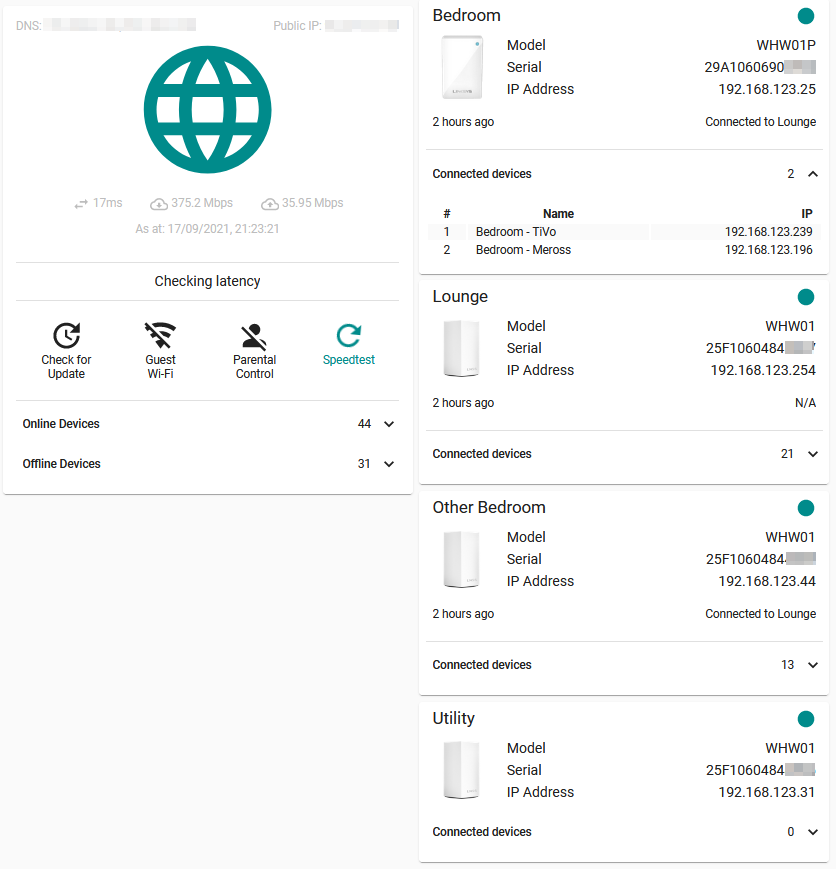
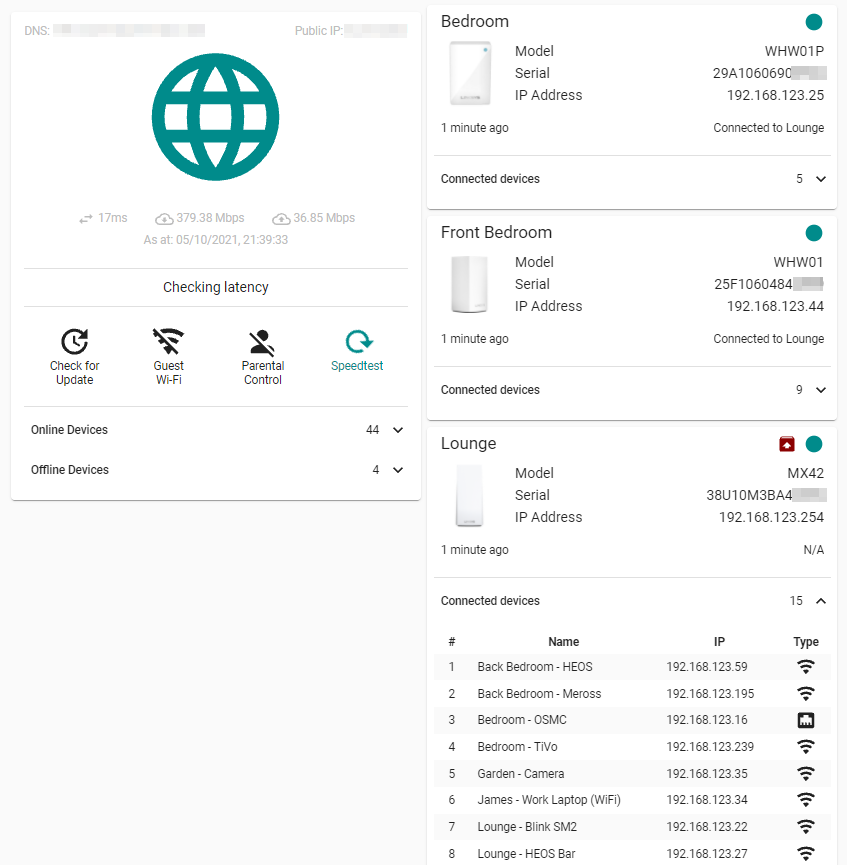
Update the README to reflect recent changes
YAML view updated to: -

- show the type of connection for connected devices
- show an icon when updates are available for a node

diff --git a/README.md b/README.md
@@ -29,6 +29,7 @@ available.
   - IP, DNS, MAC
 - Node: Status
   - IP, MAC
+- Node: Update Available
 
 #### Device  Trackers
 
@@ -40,13 +41,14 @@ install time and from reconfiguring the integration.
 - Mesh: Number of Offline Devices
   - list of device names that are offline
 - Mesh: Number of Online Devices
-  - list of device names and IP addresses that are online
+  - list of device names, IP addresses and adapter types that are online
 - Mesh: Date of Latest Speedtest
   - Exit code, Latency, Download/Upload bandwidth, Result ID
 - Node: Number of Connected Devices
   - list of device names and IP addresses that are connected
 - Node: Current Firmware Version
 - Node: Model Number
+- Node: Newest Firmware Version
 - Node: Parent Name
   - IP address of the parent
 - Node: Serial Number
@@ -388,22 +390,35 @@ To create this view a number of custom cards have been used.  These are: -
                           ha-card { border-radius: 0px; box-shadow: none; }
                           ha-markdown { padding: 16px 0px 0px !important; }
                         ha-markdown$: >
-                          table { width: 100%; }
+                          table { width: 100%; border-collapse: separate;
+                          border-spacing: 0px; }
 
                           tbody tr:nth-child(2n+1) { background-color:
                           var(--table-row-background-color); }
 
-                          thead tr th, tbody tr td { padding: 0px 10px; }
+                          thead tr th, tbody tr td { padding: 4px 10px; }
                     content: >
                       {% set devices =
                       state_attr('sensor.velop_mesh_online_devices', 'devices')
-                      %} | # | Name | IP |
+                      %} | # | Name | IP | Type |
 
-                      |:---:|---|---:| {%- for device in devices -%}
+                      |:---:|---|---|:---:| {%- for device in devices -%}
                         {% set idx = loop.index %}
-                        {%- for device_name, device_ip in device.items() %}
-                      {{ "| {} | {} | {} |".format(idx, device_name,
-                      ",".join(device_ip)) }}
+                        {%- for device_name, device_details in device.items() -%}
+                          {%- set device_ip = device_details.keys() | list | first -%}
+                          {%- set connection_type = device_details.values() | list | first | lower -%}
+                          {%- if connection_type == "wired" -%}
+                            {%- set connection_icon = "ethernet" -%}
+                          {% elif connection_type == "wireless" -%}
+                            {%- set connection_icon = "wifi" -%}
+                          {% elif connection_type == "unknown" -%}
+                            {%- set connection_icon = "help" -%}
+                          {% else -%}
+                            {%- set connection_icon = "" -%}
+                          {%- endif %}
+                      {{ "| {} | {} | {} | {} |".format(idx, device_name,
+                      device_ip, '<ha-icon icon="hass:' ~ connection_icon ~
+                      '"></ha-icon>') }}
                         {%- endfor %}
                       {%- endfor %}
               - type: custom:fold-entity-row
@@ -435,12 +450,13 @@ To create this view a number of custom cards have been used.  These are: -
                           ha-card { border-radius: 0px; box-shadow: none; }
                           ha-markdown { padding: 16px 0px 0px !important; }
                         ha-markdown$: >
-                          table { width: 100%; }
+                          table { width: 100%; border-collapse: separate;
+                          border-spacing: 0px; }
 
                           tbody tr:nth-child(2n+1) { background-color:
                           var(--table-row-background-color); }
 
-                          thead tr th, tbody tr td { padding: 0px 10px; }
+                          thead tr th, tbody tr td { padding: 4px 10px; }
                     content: >
                       {% set devices =
                       state_attr('sensor.velop_mesh_offline_devices', 'devices')
@@ -480,24 +496,42 @@ To create this view a number of custom cards have been used.  These are: -
                     "sensor." +
                     "this.entity_id".split(".")[1].split("_").slice(0,-1).join("_")
                     + "_serial"
+                  ID_UPDATE_AVAILABLE: >
+                    "binary_sensor." +
+                    "this.entity_id".split(".")[1].split("_").slice(0,-1).join("_")
+                    + "_update_available"
                   CONNECTED_DEVICES_TEXT: |
                     (entity_id) => {
                       var ret = `
-                    | # | Name | IP |
-                    |:---:|---|---:|
+                    | # | Name | IP | Type |
+                    |:---:|---|---|:---:|
                     `
                       if (states[entity_id].attributes.devices) {
                         states[entity_id].attributes.devices.forEach((device, idx) => {
-                          ret += "| " + (idx + 1) + " | " + device.name + " | " + device.ip + " |\n"
+                          var connection_icon
+                          switch (device.type.toLowerCase()) {
+                            case "wireless":
+                              connection_icon = "wifi"
+                              break
+                            case "wired":
+                              connection_icon = "ethernet"
+                              break
+                            case "unknown":
+                              connection_icon = "question"
+                              break
+                          }
+                          ret += "| " + (idx + 1) + " | " + device.name + " | " + device.ip + " | <ha-icon icon='hass:" + connection_icon + "'></ha-icon> |\n"
                         })
                       }
                       return ret
                     }
                 entities:
+                  - this.entity_id
                   - ${ID_CONNECTED_DEVICES}
                   - ${ID_MODEL}
                   - ${ID_PARENT}
                   - ${ID_SERIAL}
+                  - ${ID_UPDATE_AVAILABLE}
                 card:
                   type: custom:stack-in-card
                   cards:
@@ -537,6 +571,20 @@ To create this view a number of custom cards have been used.  These are: -
                           states[ID_PARENT].state : 'N/A'}
                         attr_label_ip: IP Address
                         attr_ip: '[[[ return entity.attributes.ip || ''N/A'' ]]]'
+                        attr_update: |
+                          [[[
+                            var ret
+                            var entity_update = 'binary_sensor.' + entity.entity_id.split('.')[1].split('_').slice(0, -1).join('_') + '_update_available'
+                            var update_available = states[entity_update].state
+                            if (update_available == 'on') {
+                              ret = `<ha-icon
+                                  icon="hass:package-up"
+                                  style="width: 24px; height: 24px;"
+                                >
+                                </ha-icon>`
+                            }
+                            return ret
+                          ]]]
                       extra_styles: >
                         div[id^="attr_"] { justify-self: end; }
                         div[id^="attr_label_"] { justify-self: start;
@@ -547,8 +595,8 @@ To create this view a number of custom cards have been used.  These are: -
                           - padding: 16px
                         grid:
                           - grid-template-areas: >-
-                              "n n attr_status" "i attr_label_model attr_model"
-                              "i attr_label_serial attr_serial" "i attr_label_ip
+                              "n n n" "i attr_label_model attr_model" "i
+                              attr_label_serial attr_serial" "i attr_label_ip
                               attr_ip" "l l attr_parent"
                           - grid-template-rows: 1fr 1fr 1fr 1fr 1fr
                           - grid-template-columns: 15% 1fr max-content
@@ -561,6 +609,11 @@ To create this view a number of custom cards have been used.  These are: -
                         custom_fields:
                           attr_parent:
                             - justify-self: end
+                          attr_update:
+                            - position: absolute
+                            - top: 8px
+                            - right: 48px
+                            - color: darkred
                         state:
                           - position: absolute
                           - top: 8px
@@ -590,6 +643,9 @@ To create this view a number of custom cards have been used.  These are: -
                           head:
                             type: custom:template-entity-row
                             entity: ${ID_CONNECTED_DEVICES}
+                            tap_action:
+                              action: fire-dom-event
+                              fold_row: true
                             name: >-
                               {% set name = state_attr(config.entity,
                               'friendly_name') %} {% if name %}
@@ -617,12 +673,13 @@ To create this view a number of custom cards have been used.  These are: -
                                     ha-markdown { padding: 16px 0px 0px
                                     !important; }
                                   ha-markdown$: >
-                                    table { width: 100%; }
+                                    table { width: 100%; border-collapse:
+                                    collapse; }
 
                                     tbody tr:nth-child(2n+1) { background-color:
                                     var(--table-row-background-color); }
 
-                                    thead tr th, tbody tr td { padding: 0px
+                                    thead tr th, tbody tr td { padding: 4px
                                     10px; }
                               content: ${CONNECTED_DEVICES_TEXT(ID_CONNECTED_DEVICES)}
   ```
